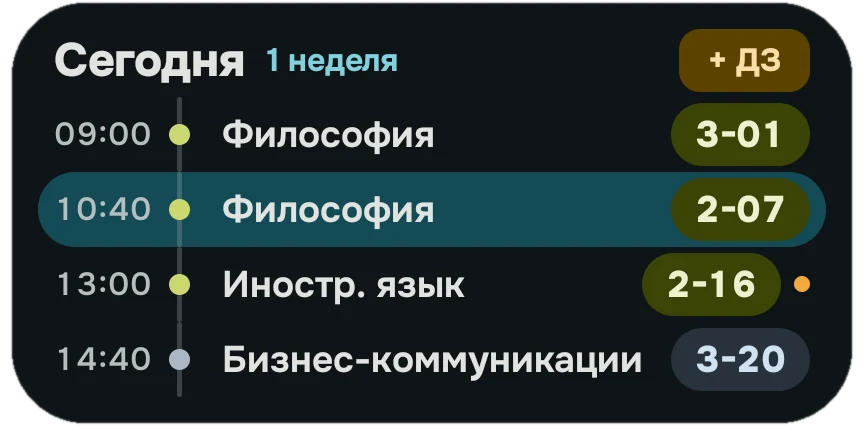
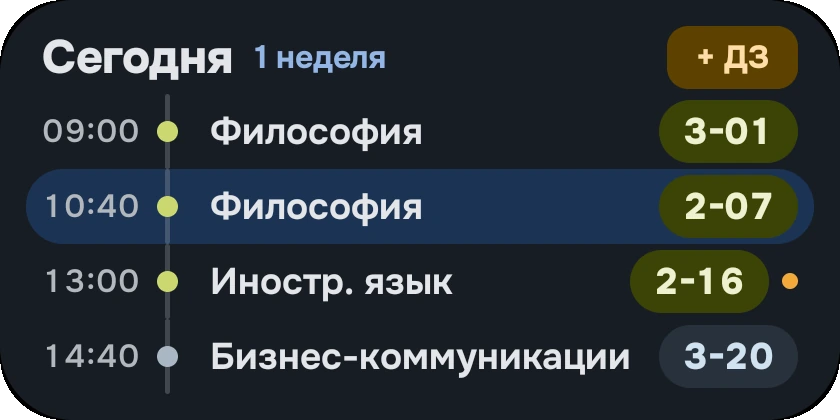
Океан по умолчанию, виджеты и ресурсы в цветах нового логотипа, снимки виджетов для сайта

diff --git a/app/lib/theme/brand_colors.dart b/app/lib/theme/brand_colors.dart
@@ -1,16 +1,17 @@
-// Фирменные цвета: «бумага + петроль + янтарь звонка».
-//  • бумага — тёплый светлый фон, как страница расписания;
-//  • петроль — глубокий сине-зелёный, основной цвет;
+// Фирменные цвета UniGraf: «океан» — глубокий синий (цвет логотипа), светлая поверхность и янтарь звонка.
+//  • океан — основной цвет по умолчанию; его можно сменить в настройках на любую из тем ниже;
+//  • петроль — прежний сине-зелёный (подобран вручную), остался как одна из тем;
 //  • янтарь — цвет школьного звонка, акцент (напоминания, «сейчас»).
 // Тёмная тема — не инверсия светлой, а отдельно подобранные тона (контраст текста ≥ 4.5:1).
 
 import 'package:flutter/material.dart';
 
-/// Цветовые темы приложения. «Петроль» — фирменная (подобрана вручную), остальные строятся от оттенка по одним правилам,
-/// а проверка контраста в тестах гарантирует читаемость каждой из них в светлом и тёмном виде.
+/// Цветовые темы приложения. «Океан» — фирменная по умолчанию, «Петроль» — прежняя (подобрана вручную),
+/// остальные строятся от оттенка по одним правилам, а проверка контраста в тестах гарантирует читаемость
+/// каждой из них в светлом и тёмном виде.
 enum AppPalette {
-  petrol('petrol', 'Петроль', 'Фирменная: бумага и сине-зелёный', 190, 1.0),
-  ocean('ocean', 'Океан', 'Спокойный синий', 215, 1.0),
+  ocean('ocean', 'Океан', 'Фирменная: цвета логотипа', 215, 1.0),
+  petrol('petrol', 'Петроль', 'Прежняя: сине-зелёный', 190, 1.0),
   forest('forest', 'Лес', 'Глубокий зелёный', 150, 0.9),
   plum('plum', 'Слива', 'Тёплый фиолетовый', 285, 0.9),
   sunset('sunset', 'Закат', 'Терракота и коралл', 14, 1.0),
@@ -24,7 +25,7 @@ enum AppPalette {
   final double hue; // оттенок 0–360
   final double saturation; // множитель насыщенности (графит почти без цвета)
 
-  static AppPalette parse(String? id) => values.firstWhere((p) => p.id == id, orElse: () => AppPalette.petrol);
+  static AppPalette parse(String? id) => values.firstWhere((p) => p.id == id, orElse: () => AppPalette.ocean);
 }
 
 abstract final class BrandColors {

diff --git a/app/web/index.html b/app/web/index.html
@@ -8,8 +8,8 @@
   <meta content="IE=Edge" http-equiv="X-UA-Compatible">
   <meta name="viewport" content="width=device-width, initial-scale=1.0, maximum-scale=5.0">
   <meta name="description" content="UniGraf: расписание института, аудитории, домашка, поиск">
-  <meta name="theme-color" content="#FBF8F3" media="(prefers-color-scheme: light)">
-  <meta name="theme-color" content="#0E1416" media="(prefers-color-scheme: dark)">
+  <meta name="theme-color" content="#F4F6F9" media="(prefers-color-scheme: light)">
+  <meta name="theme-color" content="#0F1217" media="(prefers-color-scheme: dark)">
 
   <!-- iPhone: «Добавить на экран Домой» превращает страницу в приложение без адресной строки -->
   <meta name="mobile-web-app-capable" content="yes">
@@ -24,15 +24,15 @@
 
   <style>
     /* Фон страницы совпадает с фоном приложения — при загрузке и в «полосах» под строкой состояния нет белых вспышек */
-    html, body { margin: 0; height: 100%; background: #FBF8F3; }
-    @media (prefers-color-scheme: dark) { html, body { background: #0E1416; } }
+    html, body { margin: 0; height: 100%; background: #F4F6F9; }
+    @media (prefers-color-scheme: dark) { html, body { background: #0F1217; } }
     /* Экран загрузки (пока открывается приложение) */
     #boot { position: fixed; inset: 0; display: flex; flex-direction: column; align-items: center; justify-content: center;
             font-family: -apple-system, system-ui, sans-serif; color: #51565A; gap: 16px; }
     @media (prefers-color-scheme: dark) { #boot { color: #B5BEC0; } }
     #boot img { width: 72px; height: 72px; border-radius: 20px; }
     #boot .bar { width: 120px; height: 4px; border-radius: 2px; background: rgba(11,85,99,.18); overflow: hidden; }
-    #boot .bar::after { content: ""; display: block; width: 40%; height: 100%; background: #0B5563; border-radius: 2px;
+    #boot .bar::after { content: ""; display: block; width: 40%; height: 100%; background: #1A3E70; border-radius: 2px;
                         animation: slide 1.1s ease-in-out infinite; }
     #boot .hint { max-width: 260px; text-align: center; font-size: 13px; line-height: 1.4; opacity: .8; }
     #boot .hint[hidden] { display: none; }

diff --git a/app/android/app/src/debug/kotlin/ru/unigraf/unigraf/widget/WidgetGalleryActivity.kt b/app/android/app/src/debug/kotlin/ru/unigraf/unigraf/widget/WidgetGalleryActivity.kt
@@ -109,8 +109,9 @@ class WidgetGalleryActivity : Activity() {
             .put(JSONObject().put("subject", "Математика").put("short", "Математика").put("text", "Номера 14–19 из задачника").put("due", "2026-10-13").put("files", 0).put("tone", tones.getJSONObject("Математика")))
             .put(JSONObject().put("subject", "Информатика").put("short", "Информатика").put("text", "Лабораторная №3, отчёт").put("due", "2026-10-14").put("files", 1).put("tone", tones.getJSONObject("Информатика")))
             .put(JSONObject().put("subject", "История России").put("short", "История России").put("text", "Конспект §12").put("due", "2026-10-16").put("files", 0).put("tone", tones.getJSONObject("История России")))
-        val light = JSONObject().put("bg", "#FBF8F3").put("text", "#1B1C1A").put("textSecondary", "#51565A").put("accent", "#0B5563").put("highlight", "#CDEBF0").put("badgeBg", "#FFDDA8").put("badgeText", "#2B1A00")
-        val night = JSONObject().put("bg", "#0E1416").put("text", "#E1E3E0").put("textSecondary", "#B5BEC0").put("accent", "#80D0DE").put("highlight", "#134A55").put("badgeBg", "#5C4300").put("badgeText", "#FFDDA8")
+        // цвета темы «Океан» (она по умолчанию): так виджеты выглядят у пользователя
+        val light = JSONObject().put("bg", "#F4F6F9").put("text", "#16191D").put("textSecondary", "#49505A").put("accent", "#1A3E70").put("highlight", "#D1DEF0").put("badgeBg", "#FFDDA8").put("badgeText", "#2B1A00")
+        val night = JSONObject().put("bg", "#181D25").put("text", "#E3E5E8").put("textSecondary", "#B2B7BD").put("accent", "#94B6E6").put("highlight", "#1C3354").put("badgeBg", "#5E4100").put("badgeText", "#FFDDA8")
         return JSONObject().put("weekLabel", "1 неделя").put("days", days).put("homeworkCount", 3).put("homework", hw)
             .put("colors", JSONObject().put("light", light).put("dark", night)).toString()
     }

diff --git a/app/test/app_test.dart b/app/test/app_test.dart
@@ -219,12 +219,13 @@ void main() {
     await _settle(tester);
 
     Color primary() => Theme.of(tester.element(find.byType(Scaffold).first)).colorScheme.primary;
-    expect(primary(), BrandColors.scheme(AppPalette.petrol, Brightness.light).primary);
-
-    await tester.tap(find.text('Океан'));
-    await _settle(tester);
+    // по умолчанию — «Океан» (цвета логотипа)
     expect(primary(), BrandColors.scheme(AppPalette.ocean, Brightness.light).primary);
-    expect((await SharedPreferences.getInstance()).getString('palette'), 'ocean');
+
+    await tester.tap(find.text('Петроль'));
+    await _settle(tester);
+    expect(primary(), BrandColors.scheme(AppPalette.petrol, Brightness.light).primary);
+    expect((await SharedPreferences.getInstance()).getString('palette'), 'petrol');
 
     // Тёмная тема + чёрный фон
     await tester.tap(find.text('Тема').first);

diff --git a/app/lib/app_state.dart b/app/lib/app_state.dart
@@ -67,7 +67,7 @@ class Settings {
     this.notifyBeforeMin = 10,
     this.eveningHomeworkReminder = true,
     this.useDynamicColor = false,
-    this.palette = AppPalette.petrol,
+    this.palette = AppPalette.ocean,
     this.amoled = false,
     this.customSubjects = true,
     this.showGroupData = true,

diff --git a/app/lib/theme/app_theme.dart b/app/lib/theme/app_theme.dart
@@ -176,7 +176,7 @@ ThemeData buildTheme(ColorScheme scheme) {
 ColorScheme resolveScheme({
   required Brightness brightness,
   ColorScheme? dynamicScheme,
-  AppPalette palette = AppPalette.petrol,
+  AppPalette palette = AppPalette.ocean,
   bool amoled = false,
 }) {
   if (dynamicScheme != null) {

diff --git a/ХОД_РАБОТ.md b/ХОД_РАБОТ.md
@@ -354,3 +354,7 @@ Kotlin-тесты: `cd app/android && ./gradlew :app:testDebugUnitTest` (14 те
 ## Выпуск 0.3.1 и описание проекта для замдекана (2026-10-15)
 Выпущена версия **0.3.1** (по слову владельца «выпускай» заранее): новое название UniGraf, пакет `ru.unigraf.unigraf`, режим преподавателя, исправление скачивания файлов, ровные вкладки «Домашки». Описание выпуска — на странице релиза на GitHub; сайт показывает 0.3.1, APK `unigraf.apk` (24,7 МБ, проверен: пакет и название UniGraf). Перед выпуском на эмуляторе пройдены сценарии: первый запуск, «Сегодня», «Неделя», поиск по аудитории, свободные аудитории, настройки, тёмная тема + крупный шрифт ×1,6, режим преподавателя и возврат в режим студента, запрос уведомлений, скачивание файлов от преподавателя. (Поиск по русской фамилии на эмуляторе не набирался: `adb input text` не печатает кириллицу; сам поиск покрыт тестами и проверен в браузере.)
 **Документ для замдекана:** папка `Для_замдекана/` (в `.gitignore`, в репозиторий не попадает): `UniGraf_описание_проекта.docx` (редактируемый) и `.pdf` (для отправки), 10–11 страниц: проблемы и решения, снимки экранов, схема работы, точность и надёжность, трудности и решения, данные и безопасность, состояние и пилотный запуск. Без слов про бесплатность и без упоминания ИИ, без перечня мелких минусов. Собирается из `content.py` (текст), `shots.py` (картинки), `build_docx.py` / `build_pdf.py`; скрипты лежат во временной папке сессии и в репозиторий не добавлялись. Снимки экранов: `SHOT_RATIO=3 SHOT_ROOT=/путь flutter test tool/screenshots_test.dart`.
+
+
+## Новый логотип и палитра «Океан» по умолчанию (2026-10-16)
+По выбору владельца: синий логотип (шапочка и «U»), тема «Океан» по умолчанию, остальные темы остались в настройках. Сначала тест на ветке `design-test` (адреса `/site-next/` и `/app-next/`), владелец одобрил, ветка влита в `main`. Заменено: значок приложения (обычный, адаптивный, одноцветный), значок уведомления, знак в приложении, значки веб-версии и сайта, картинка для ссылок, листовка, QR, палитра сайта, снимки приложения и виджетов на сайте, цвета виджетов (из темы приложения; запасные в ресурсах), цвет первого экрана веб-версии и манифеста. Для картинок добавлены переменные `SHOT_PALETTE` (`app/tool/screenshots_test.dart`) и `LANDING_SHOTS` (`data/tools/make_landing_assets.py`). Подробности палитры — в `ДИЗАЙН.md`.

diff --git a/ДИЗАЙН.md b/ДИЗАЙН.md
@@ -123,3 +123,12 @@
 - Виджеты на Android старше 12: цвета предметов и тема недоступны, остаются стандартные.
 - Тёмная тема виджетов проверена на эмуляторе, не на другом устройстве.
 - Перенос пары на уже занятую позволяет получить две пары в одной клетке (решить, считать ли это ошибкой).
+
+
+## Обновление 2026-10-16: логотип UniGraf и палитра «Океан» по умолчанию
+
+- **Логотип:** шапочка выпускника и «U» (тёмно-синяя шапочка, две синие половины «U», синяя кисточка), светло-голубая плитка `#F1F7FE`. Файлы: `app/assets/icon/` (значок, адаптивный фон `#F1F7FE`, одноцветный слой для Android 13), `app/assets/logo/unigraf.png` (знак внутри приложения), значок уведомления `drawable/ic_notification.xml` (силуэт знака). Знак внутри адаптивного значка занимает около 78% холста: края шапочки остаются в безопасной зоне круглых масок.
+- **Тема по умолчанию — «Океан»** (`AppPalette.ocean`: светлая поверхность `#F4F6F9`, основной `#1A3E70`, контейнер `#D1DEF0`; тёмная: `#0F1217`, `#94B6E6`, `#1C3354`). Меняется в «Настройки → Оформление» (шесть тем: Океан, Петроль, Лес, Слива, Закат, Графит); выбранное хранится в телефоне. Янтарь звонка остаётся акцентом во всех темах.
+- **Виджеты** красятся в цвета выбранной темы (цвета приходят из приложения в снимке `colors`); ресурсы `values/colors.xml` и `values-night/colors.xml` — запасные цвета на случай, когда снимка ещё нет, они тоже «Океан».
+- **Сайт:** основной цвет `#001A63` (глубокий синий логотипа), светло-голубые плашки `#D9E9FD`, фон остался прежним тёплым `#FBF8F3` (тёмная тема `#0E1416`); картинки приложения на сайте сняты в теме «Океан» (`SHOT_PALETTE=ocean`).
+- **Как снять картинки:** `SHOT_PALETTE=ocean SHOT_ROOT=/путь flutter test tool/screenshots_test.dart`; картинки виджетов для сайта — из отладочной витрины `WidgetGalleryActivity` (цвета образцов в ней соответствуют «Океану»).

diff --git a/PRODUCT.md b/PRODUCT.md
@@ -34,7 +34,7 @@ Flutter 3.47 / Dart, Riverpod, drift; в браузере рисуется на 
 
 ## Brand Commitments
 
-Название «UniGraf» (решение владельца, 2026-10-15; раньше приложение называлось «Расписание»). Идея «номер аудитории — главное на экране». Нынешнее оформление (бумага + петроль + янтарь, шрифт Onest, значок «два блока пары и точка-звонок») владельцу нравится и остаётся основой: решение владельца (2026-10-12) — не заменять дизайн, а показать более свежий, отполированный вариант того же стиля с анимациями и новыми идеями, «заметно другой, но привычный». Структура экранов и функции не меняются. Тестовая версия выходит на отдельном адресе, обычная не трогается.
+Название «UniGraf» (решение владельца, 2026-10-15; раньше приложение называлось «Расписание»). Логотип: шапочка выпускника и буква «U» (синий вариант, выбран владельцем 2026-10-16); основная цветовая тема по умолчанию — «Океан» (цвета логотипа), прежняя сине-зелёная «Петроль» осталась как одна из шести тем в настройках. Идея «номер аудитории — главное на экране». Прежнее оформление (бумага + петроль + янтарь, шрифт Onest) нравилось владельцу и было основой; решение 2026-10-12: решение владельца (2026-10-12) — не заменять дизайн, а показать более свежий, отполированный вариант того же стиля с анимациями и новыми идеями, «заметно другой, но привычный». Структура экранов и функции не меняются. Тестовая версия выходит на отдельном адресе, обычная не трогается.
 
 ## Evidence on Hand
 
